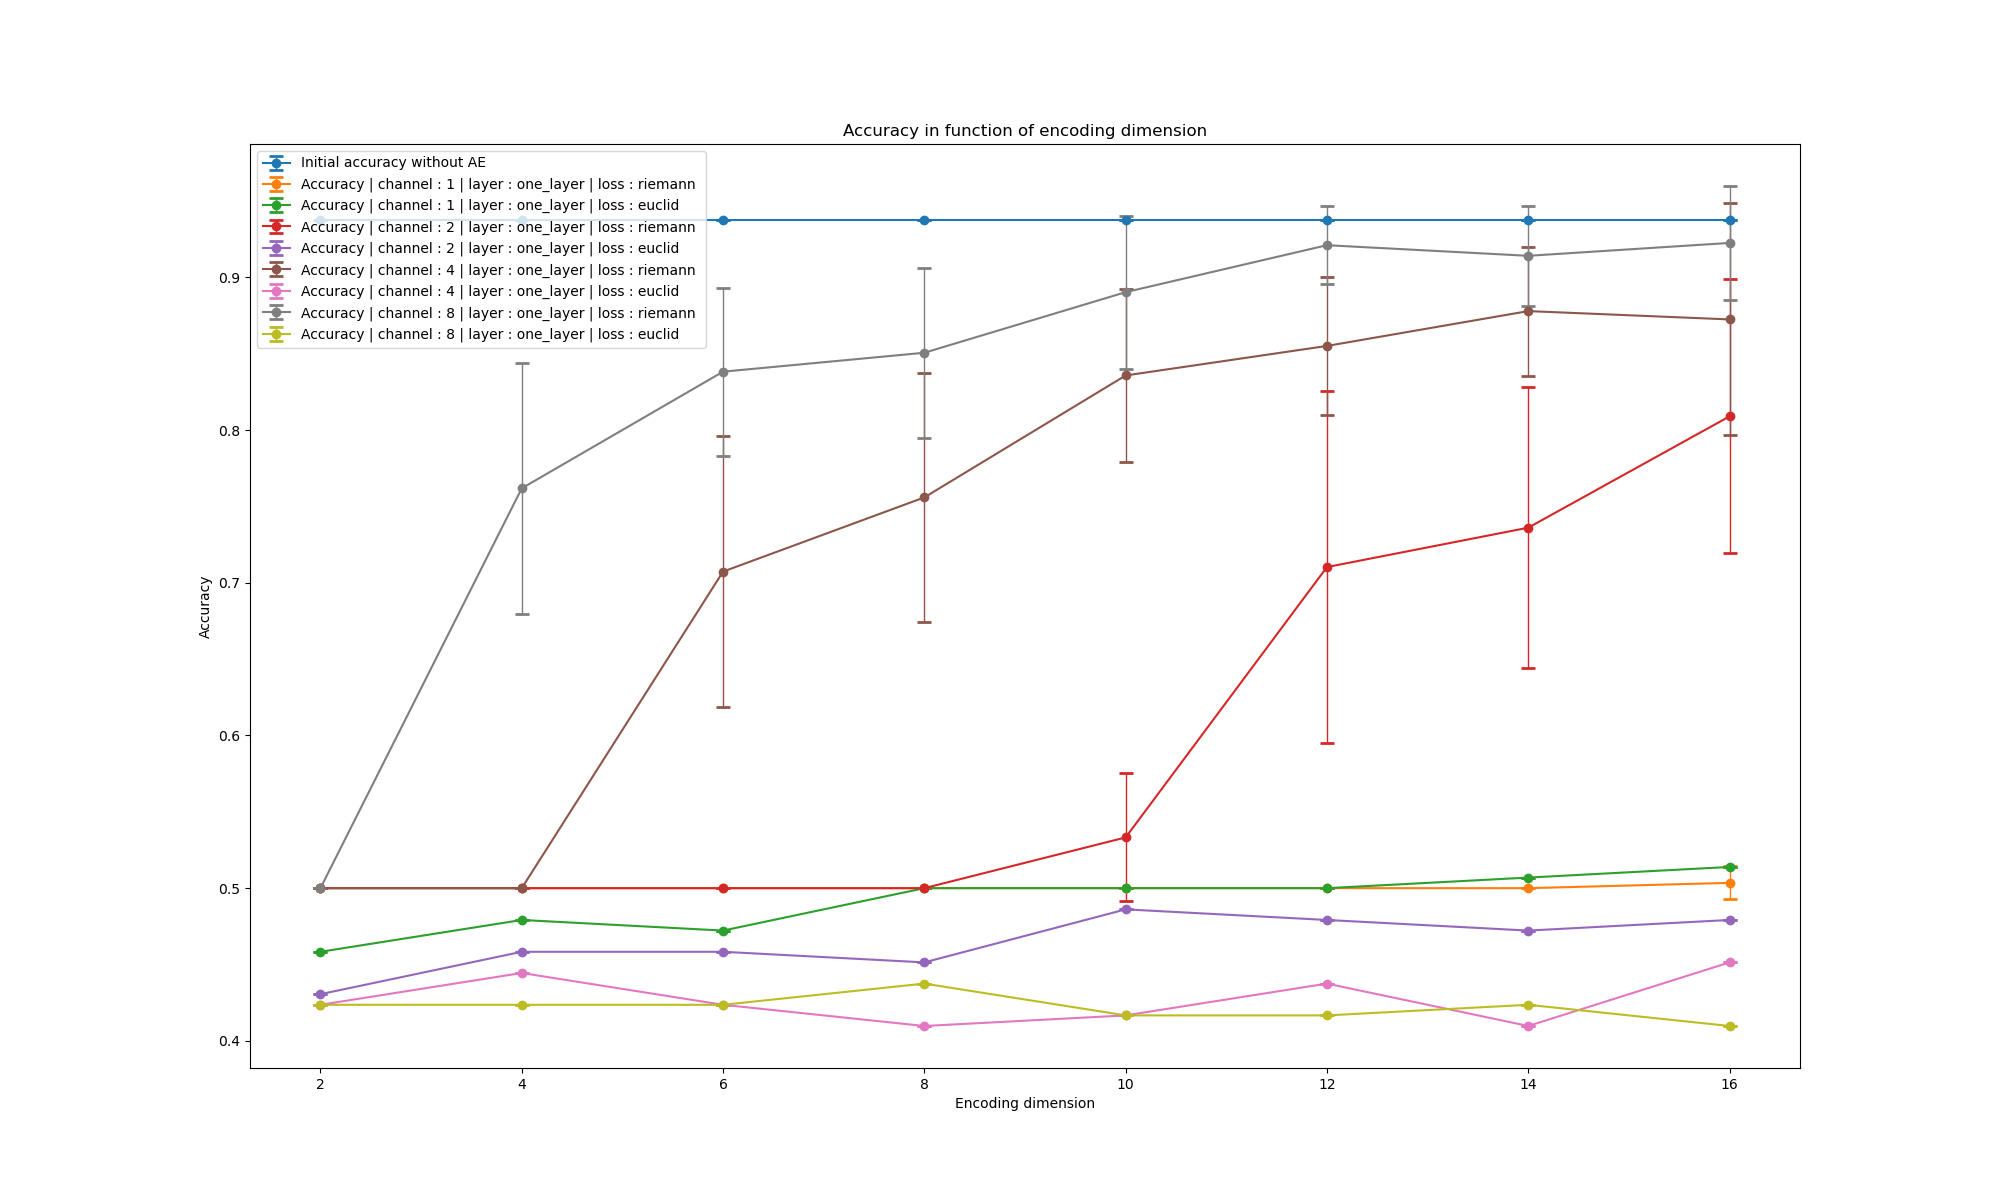
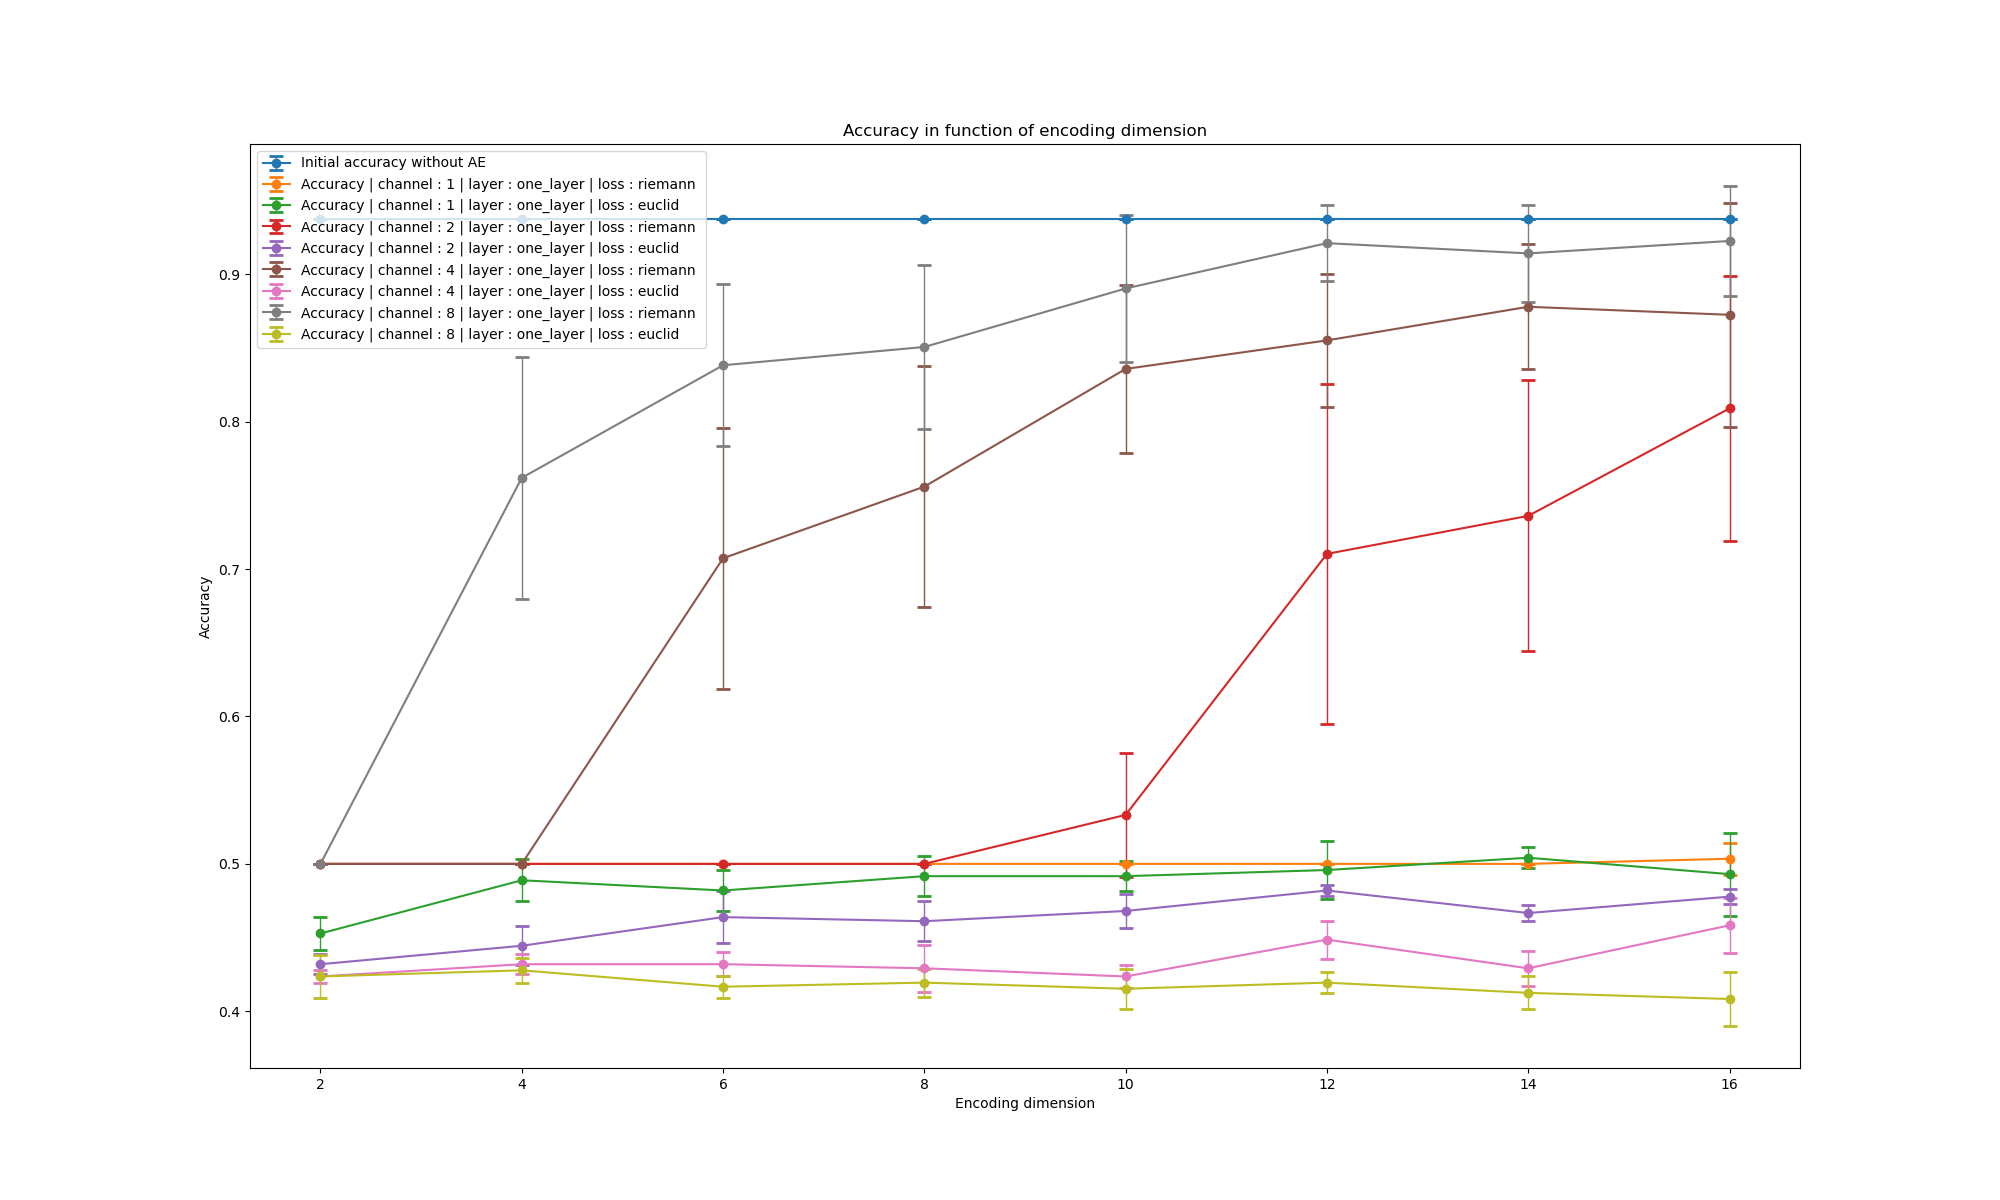
code changes

diff --git a/src/evaluate_one_model.py b/src/evaluate_one_model.py
@@ -71,14 +71,15 @@ def evaluate_encoding_dim_influence(epochs,encoding_dims,channels_out,loss_type,
 if __name__ == '__main__':
     #fixed parameters of the model
     epochs = 200
-    channels_out = 2
+    channels_out = [1,2,4,8]
     loss_type = "euclid"
     layers_type = "one_layer"
     data = "bci"
     batch_size=32
     noise="none"
     encoding_dims= [2, 4, 6, 8, 10, 12, 14, 16]
-    nb_xp = 1
+    nb_xp = 5
     nb_datasets = 1
 
-    evaluate_encoding_dim_influence(epochs=epochs,encoding_dims=encoding_dims,channels_out=channels_out,loss_type=loss_type,layers_type=layers_type,data=data,noise=noise,batch_size=batch_size,nb_datasets=nb_datasets,nb_xp=nb_xp)
+    for channel in channels_out:
+        evaluate_encoding_dim_influence(epochs=epochs,encoding_dims=encoding_dims,channels_out=channel,loss_type=loss_type,layers_type=layers_type,data=data,noise=noise,batch_size=batch_size,nb_datasets=nb_datasets,nb_xp=nb_xp)
